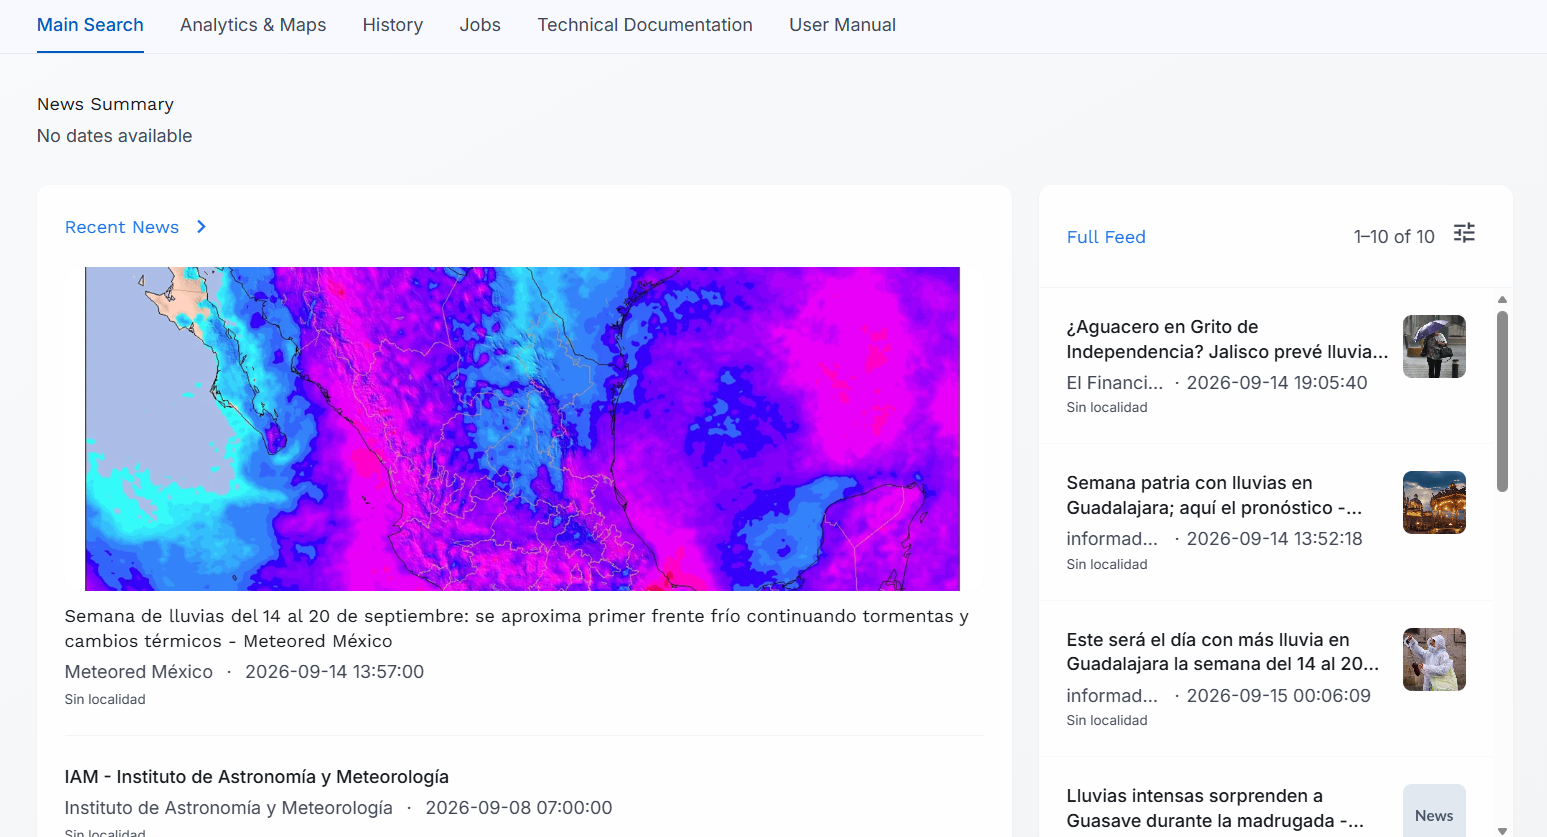
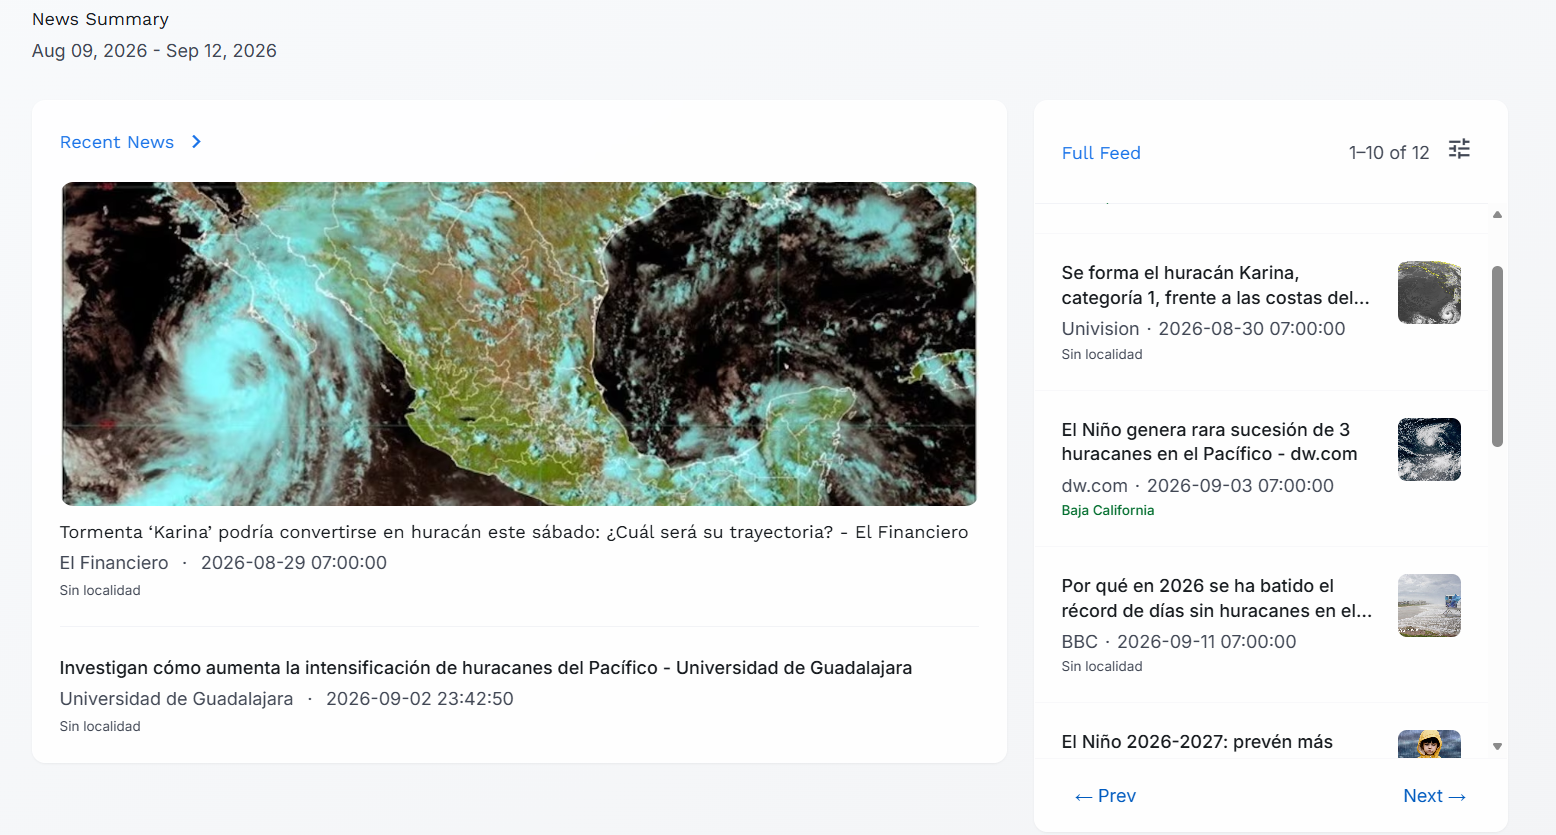
ci: add github actions CI pipeline and tests configuration

diff --git a/templates/components/header.html b/templates/components/header.html
@@ -10,7 +10,7 @@
 <div class="relative flex-1 max-w-2xl mx-lg" id="searchBarContainer">
 <div id="searchBarWrapper" class="flex items-center bg-surface-container-lowest rounded-full px-4 py-2 custom-shadow border border-white/40 focus-within:ring-2 focus-within:ring-primary-container/50 focus-within:border-primary-container transition-all">
 <button class="material-symbols-outlined text-on-surface-variant mr-2 select-none hover:text-primary transition-colors" data-icon="search" onclick="fetchDiscovery()" type="button">search</button>
-<input class="flex-1 bg-transparent border-none focus:ring-0 text-body-md text-on-surface placeholder:text-on-surface-variant/70 py-1 outline-none" id="mainSearchInput" placeholder="Search topics, locations, and sources..." data-i18n="searchPlaceholder" type="text"/>
+<input class="flex-1 bg-transparent border-none focus:ring-0 text-body-md text-on-surface placeholder:text-on-surface-variant/70 py-1 outline-none" id="mainSearchInput" placeholder="Search topics, locations, and sources..." data-i18n="searchPlaceholder" type="text" maxlength="200"/>
 <button class="flex items-center justify-center p-1 hover:bg-surface-container-high rounded-full transition-colors ml-2" id="searchFilterBtn">
 <span class="material-symbols-outlined text-on-surface-variant" data-icon="arrow_drop_down">arrow_drop_down</span>
 </button>
@@ -21,14 +21,14 @@
 <div>
 <label class="block text-label-md font-label-md text-on-surface-variant mb-1" data-i18n="secondaryKeywords">Secondary Keywords</label>
 <div class="relative">
-<input id="secondaryInput" class="w-full bg-surface-container rounded-md px-3 py-2 pr-8 text-body-md border-transparent focus:border-primary-container focus:ring-1 focus:ring-primary-container outline-none" placeholder="e.g. AI, Machine Learning" type="text"/>
+<input id="secondaryInput" class="w-full bg-surface-container rounded-md px-3 py-2 pr-8 text-body-md border-transparent focus:border-primary-container focus:ring-1 focus:ring-primary-container outline-none" placeholder="e.g. AI, Machine Learning" type="text" maxlength="200"/>
 <span class="material-symbols-outlined absolute right-2 top-2 text-on-surface-variant hover:text-primary cursor-pointer hidden clear-btn" style="font-size: 20px;">close</span>
 </div>
 </div>
 <div>
 <label class="block text-label-md font-label-md text-on-surface-variant mb-1" data-i18n="excludeWords">Exclude Words</label>
 <div class="relative">
-<input id="excludeInput" class="w-full bg-surface-container rounded-md px-3 py-2 pr-8 text-body-md border-transparent focus:border-primary-container focus:ring-1 focus:ring-primary-container outline-none" placeholder="e.g. crypto, nft" type="text"/>
+<input id="excludeInput" class="w-full bg-surface-container rounded-md px-3 py-2 pr-8 text-body-md border-transparent focus:border-primary-container focus:ring-1 focus:ring-primary-container outline-none" placeholder="e.g. crypto, nft" type="text" maxlength="200"/>
 <span class="material-symbols-outlined absolute right-2 top-2 text-on-surface-variant hover:text-primary cursor-pointer hidden clear-btn" style="font-size: 20px;">close</span>
 </div>
 </div>
@@ -43,7 +43,7 @@
 <div class="flex-1">
 <label class="block text-label-md font-label-md text-on-surface-variant mb-1" data-i18n="domainFilter">Domain filter</label>
 <div class="relative">
-<input type="text" id="domainInput" class="w-full bg-surface-container rounded-md px-3 py-2 pr-8 text-body-md border-transparent focus:border-primary-container focus:ring-1 focus:ring-primary-container outline-none" placeholder="e.g. .com, .gov, bbc.com">
+<input type="text" id="domainInput" class="w-full bg-surface-container rounded-md px-3 py-2 pr-8 text-body-md border-transparent focus:border-primary-container focus:ring-1 focus:ring-primary-container outline-none" placeholder="e.g. .com, .gov, bbc.com" maxlength="150">
 <span class="material-symbols-outlined absolute right-2 top-2 text-on-surface-variant hover:text-primary cursor-pointer hidden clear-btn" style="font-size: 20px;">close</span>
 </div>
 </div>

diff --git a/templates/views/user_manual.html b/templates/views/user_manual.html
@@ -126,7 +126,7 @@
                         </div>
                         <div class="bg-surface-container-low p-md rounded-xl border border-surface-variant/30">
                             <strong class="text-on-background block mb-1 font-title-md" data-i18n="userMapExtractBtnTitle">Botón "Extraer Ubicaciones":</strong>
-                            <span class="text-on-surface-variant text-body-lg" data-i18n="userMapExtractBtnDesc">Es el paso clave de la plataforma. Una vez que tengas las noticias base, presiona este botón superior para que la Inteligencia Artificial lea el contenido, detecte ciudades o estados mencionados y encienda el mapa de calor.</span>
+                            <span class="text-on-surface-variant text-body-lg" data-i18n="userMapExtractBtnDesc">Es el paso clave de la plataforma. Una vez que tengas las noticias base, presiona este botón superior para que la Inteligencia Artificial lea el contenido, detecte ciudades o estados mencionados y encienda el mapa de calor. <br><br><strong>Nota:</strong> Este botón se oculta automáticamente si estás visualizando una búsqueda histórica que ya fue analizada y mapeada previamente.</span>
                         </div>
                     </div>
                 </section>

diff --git a/templates/views/tech_docs.html b/templates/views/tech_docs.html
@@ -292,7 +292,7 @@
                         </div>
                         <div class="bg-surface-container-low p-md rounded-xl border border-surface-variant/30">
                             <strong class="text-on-background block mb-1 font-title-md" data-i18n="techI18nTitle">Internacionalización (i18n):</strong>
-                            <span class="text-on-surface-variant text-body-lg" data-i18n="techI18nDesc">El frontend abstrae un diccionario inyectado que permite conmutar claves <code>data-i18n</code> mediante iteradores JavaScript en el cliente.</span>
+                            <span class="text-on-surface-variant text-body-lg" data-i18n="techI18nDesc">El frontend abstrae un diccionario inyectado que permite conmutar claves estáticas <code>data-i18n</code> en el DOM, así como traducciones dinámicas programáticas a través del método <code>i18n.t()</code>. Además, cuenta con un motor de traducción mediante expresiones regulares (<code>translateStep</code>) para localizar en tiempo real los mensajes emitidos por los jobs de backend asíncronos.</span>
                         </div>
                     </div>
                 </section>
